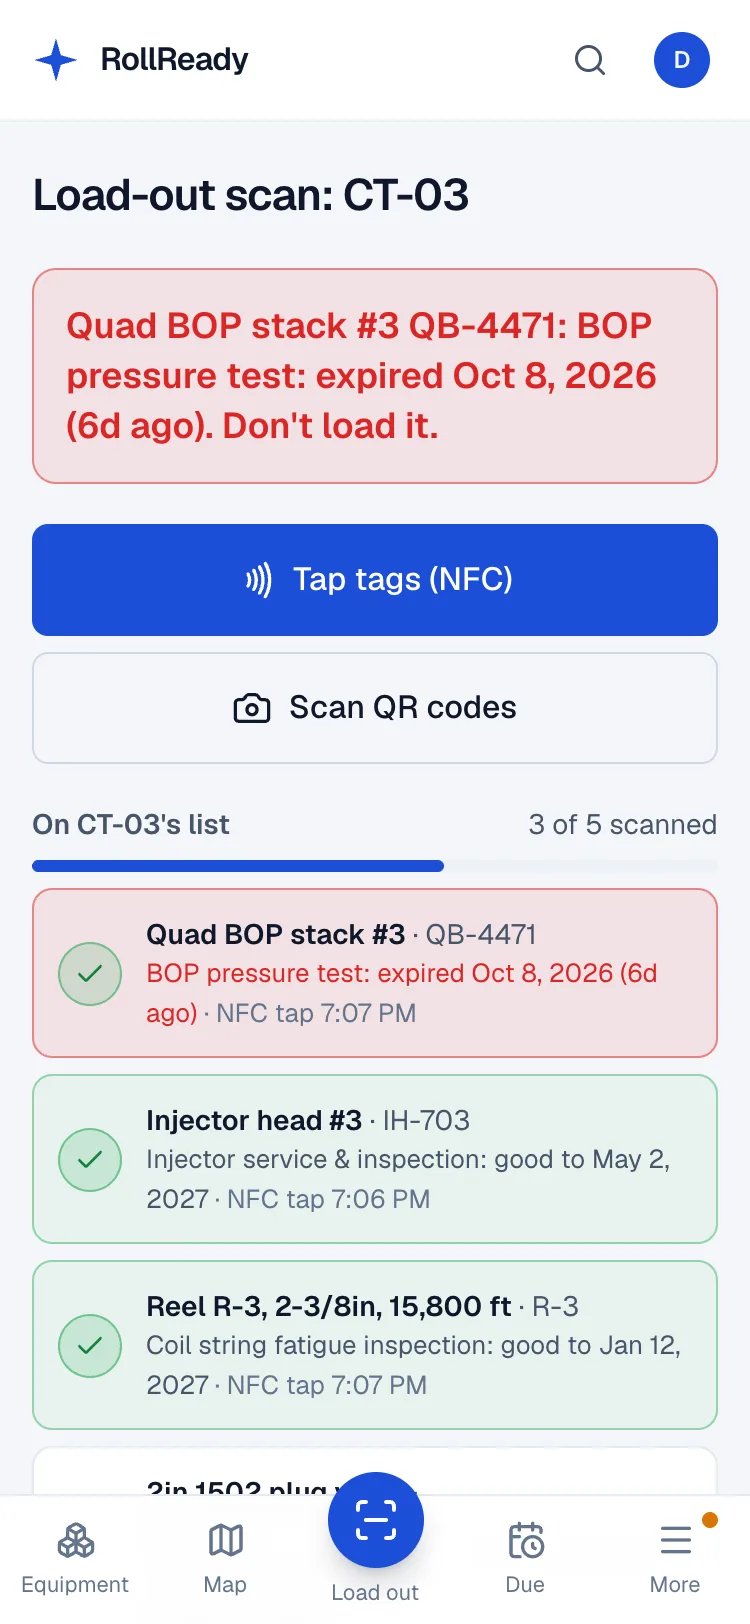
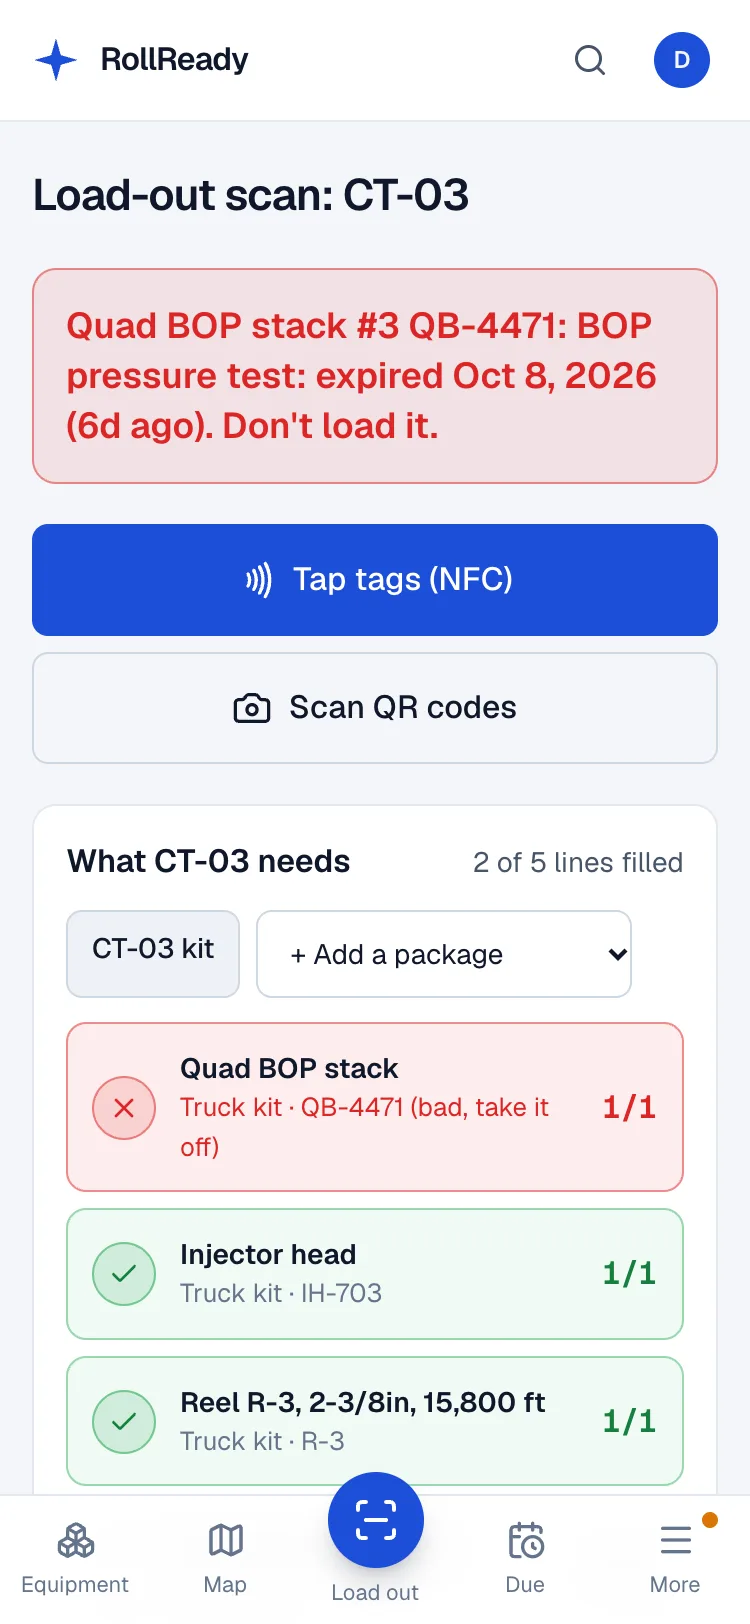
load-out: redraw after package edits, plain reason wording, expired tests read expired on records, nav fits 320px, new homepage screenshots

Changed region(s): [[0.0307, 0.4926, 0.9813, 0.9236], [0.9507, 0.8005, 0.9813, 0.8621], [0.9507, 0.6773, 0.9813, 0.7389]]

diff --git a/app/app/_components/loadout-record-view.tsx b/app/app/_components/loadout-record-view.tsx
@@ -20,6 +20,9 @@ const OUTCOME: Record<string, string> = {
 const time = (iso: string | undefined) =>
   iso ? new Date(iso).toLocaleTimeString("en-US", { timeZone: YARD_TZ, hour: "numeric", minute: "2-digit" }) : "";
 const pieceLabel = (p: { name: string; serial: string | null }) => `${p.name}${p.serial ? ` ${p.serial}` : ""}`;
+/** How a test stood when the piece went on: "good to May 12, 2027", "expired Oct 8, 2026", or "no date". */
+const testText = (t: { title: string; good_until: string | null; result: string }) =>
+  `${t.title}: ${!t.good_until ? "no date" : t.result === "expired" ? `expired ${plainDate(t.good_until)}` : `good to ${plainDate(t.good_until)}`}`;
 
 export default function LoadoutRecordView({ rec, override, tagHref }: {
   rec: LoadoutRecord;
@@ -102,8 +105,8 @@ export default function LoadoutRecordView({ rec, override, tagHref }: {
             return (
               <div key={p.asset_id} className={cn("rounded-xl border p-3", p.red ? "border-red-500/40 bg-red-500/[0.06]" : "border-line bg-surface")}>
                 <div className="break-words text-sm font-semibold">{href ? <a href={href} className="hover:text-bone hover:underline">{pieceLabel(p)}</a> : pieceLabel(p)}</div>
-                <div className="mt-0.5 break-words text-[13px] text-ink-dim">
-                  {(p.tests ?? []).length ? (p.tests ?? []).map((t) => `${t.title}: ${t.good_until ? `good to ${plainDate(t.good_until)}` : "no date"}`).join(" · ") : "No test on file"}
+                <div className={cn("mt-0.5 break-words text-[13px]", p.red ? "text-red-400" : "text-ink-dim")}>
+                  {(p.tests ?? []).length ? (p.tests ?? []).map(testText).join(" · ") : "No test on file"}
                 </div>
                 <div className="mt-0.5 text-[13px] text-ink-faint">{HOW[p.how] ?? p.how}{p.at ? ` ${time(p.at)}` : ""}{p.by ? ` by ${p.by}` : ""}{p.added ? " · brought over from elsewhere" : ""}</div>
               </div>
@@ -124,7 +127,7 @@ export default function LoadoutRecordView({ rec, override, tagHref }: {
                       <td className="px-3 py-2 font-medium">{href ? <a href={href} className="hover:text-bone hover:underline">{p.name}</a> : p.name}{p.added ? <span className="block text-xs font-normal text-ink-faint">brought over from elsewhere</span> : null}</td>
                       <td className="px-3 py-2 tabular-nums text-ink-dim">{p.serial ?? ""}</td>
                       <td className={cn("px-3 py-2", p.red ? "text-red-400" : "text-ink-dim")}>
-                        {(p.tests ?? []).length ? (p.tests ?? []).map((t) => <div key={t.title}>{t.title}: {t.good_until ? `good to ${plainDate(t.good_until)}` : "no date"}</div>) : "No test on file"}
+                        {(p.tests ?? []).length ? (p.tests ?? []).map((t) => <div key={t.title}>{testText(t)}</div>) : "No test on file"}
                       </td>
                       <td className="px-3 py-2 text-ink-dim">{HOW[p.how] ?? p.how}</td>
                       <td className="px-3 py-2 tabular-nums text-ink-dim">{time(p.at)}</td>

diff --git a/app/marketing-html.ts b/app/marketing-html.ts
@@ -80,13 +80,13 @@ export const MARKETING_HTML = `
       <div class="x-laptop">
         <div class="x-laptop-screen">
           <img src="/screens/app-desktop.webp" width="2000" height="1250"
-            alt="RollReady Load out screen: every truck with its status. CT-03 and CT-06 not ready with the reason in red, and when each truck was last loaded out." fetchpriority="high"/>
+            alt="RollReady Load out screen: trucks counted as Blocked, Ready to load, and Loaded out today. CT-03 is blocked at load-out because its BOP stack is out of test." fetchpriority="high"/>
         </div>
         <div class="x-laptop-base"></div>
       </div>
       <div class="x-phone">
         <img src="/screens/app-phone.webp" width="750" height="1624"
-          alt="A load-out scan on a phone: the BOP stack on CT-03 just got scanned, and RollReady says it's out of test. Don't load it."/>
+          alt="A load-out scan on a phone: the BOP stack on CT-03 just got scanned, RollReady says it's out of test and not to load it, and the truck's kit list shows which lines are filled."/>
       </div>
     </div>
   </div>
@@ -121,7 +121,7 @@ export const MARKETING_HTML = `
     <div class="x-browser">
       <div class="x-browser-bar"><i></i><i></i><i></i><span>synnr.io/app</span></div>
       <img src="/screens/app-desktop.webp" width="2000" height="1250" loading="lazy"
-        alt="RollReady Load out screen: every truck, worst first, with a button to start its load-out scan"/>
+        alt="RollReady Load out screen: blocked trucks first with the reason in red, then trucks ready to load, each with a button to start its load-out scan"/>
     </div>
     <p class="x-fine x-center">Screenshots of the real app, not mockups. CT-03's BOP stack is six days past its pressure test, so the load-out stops it in the yard.</p>
     <div class="x-cta x-cta-center">

diff --git a/app/app/loadouts/[id]/page.tsx b/app/app/loadouts/[id]/page.tsx
@@ -58,7 +58,7 @@ export default async function LoadoutRecordPage({ params }: { params: Promise<{ 
               <summary className="cursor-pointer text-sm font-semibold">Roll anyway (manager override)</summary>
               <form action={rollLoadoutAnyway} className="mt-3 flex flex-col gap-2">
                 <input type="hidden" name="loadout_id" value={rec.id} />
-                <label className="text-sm text-ink-dim" htmlFor="reason">Why is it OK to roll? Your name and this reason go on the record and the proof link, and the office gets an email.</label>
+                <label className="text-sm text-ink-dim" htmlFor="reason">Why is it OK to roll? Your name and this reason go on the record and the proof link, and anyone set up for alerts gets an email.</label>
                 <textarea id="reason" name="reason" required minLength={10} maxLength={500} rows={3}
                   className="w-full rounded-lg border border-line-2 bg-coal px-3 py-2 text-ink outline-none focus:border-bone" />
                 <button type="submit" className={buttonClass("outline", "lg", "self-start border-amber-500/50 text-amber-400")}>Roll it on my override</button>

diff --git a/app/app/units/[unitId]/scan/scanner.tsx b/app/app/units/[unitId]/scan/scanner.tsx
@@ -350,7 +350,7 @@ export default function LoadoutScanner({ truck, pieces, kit, packages, manager =
             {ready ? <ShieldCheck className="h-8 w-8 shrink-0" /> : <OctagonX className="h-8 w-8 shrink-0" />}
             {ready ? "READY" : "NOT READY"}
           </div>
-          <p className="mt-1 text-base text-ink">{ready ? `${truck.name} can roll. The record is saved and can't be edited.` : `${truck.name} can't roll. The record is saved, and the office has been told.`}</p>
+          <p className="mt-1 text-base text-ink">{ready ? `${truck.name} can roll. The record is saved and can't be edited.` : `${truck.name} can't roll. The record is saved, and anyone set up for alerts gets an email.`}</p>
           {!ready ? (
             <ul className="mt-3 flex flex-col gap-1.5">
               {saved.reasons.map((r) => <li key={r} className="break-words text-[15px] font-medium text-red-300">{r}</li>)}

diff --git a/app/app/loadouts/[id]/actions.ts b/app/app/loadouts/[id]/actions.ts
@@ -34,7 +34,7 @@ export async function rollLoadoutAnyway(fd: FormData): Promise<void> {
   if (error && !/duplicate key/i.test(error.message)) throw new Error(error.message);
 
   const why = reasonsOf(got.rec).slice(0, 3).join("; ");
-  const message = `${got.rec.unit_name} rolled NOT READY on a manager override by ${actor}. Reason: "${reason}". Not ready because: ${why}`;
+  const message = `${got.rec.unit_name} rolled NOT READY on a manager override by ${actor}. Reason: "${reason.replace(/[.\s]+$/, "")}". Not ready because: ${why}`;
   void logEvent({ companyId: company.id, kind: "rolled_override", unitId: got.rec.unit_id, actor, message });
   void notifyEvent({ companyId: company.id, companyName: company.name, yardId: got.rec.yard_id, message });
 

diff --git a/app/app/packages/actions.ts b/app/app/packages/actions.ts
@@ -1,6 +1,6 @@
 "use server";
 
-import { revalidatePath } from "next/cache";
+import { revalidatePath, refresh as refreshRouter } from "next/cache";
 import { redirect } from "next/navigation";
 import { requireBillableCompany, assertCan } from "@/lib/saas/auth";
 import { saasDb } from "@/lib/saas/db";
@@ -28,6 +28,8 @@ function refresh(pkg: { id: string; unit_id: string | null }) {
   revalidatePath("/app/packages");
   revalidatePath(`/app/packages/${pkg.id}`);
   if (pkg.unit_id) revalidatePath(`/app/units/${pkg.unit_id}/kit`);
+  // Redraw the page the manager is on, so the change shows right away.
+  refreshRouter();
 }
 
 /** The package or kit a line belongs to, if it's this company's. */

diff --git a/lib/saas/__tests__/demo-loadouts.test.ts b/lib/saas/__tests__/demo-loadouts.test.ts
@@ -13,7 +13,7 @@ describe("the demo yard's load-outs, by the real rules", () => {
   it("CT-03 is blocked by the BOP stack that's out of test, and only that", () => {
     const r = rec("ct3");
     expect(r.verdict).toBe("not_ready");
-    expect(r.reasons).toEqual(["Out of test: Quad BOP stack #3 QB-4471 (BOP pressure test expired Oct 8, 2026 (6d ago))"]);
+    expect(r.reasons).toEqual(["Out of test: Quad BOP stack #3 QB-4471, BOP pressure test expired Oct 8, 2026 (6d ago)"]);
     expect(r.pieces.filter((p) => p.red).map((p) => p.serial)).toEqual(["QB-4471"]);
   });
   it("CT-07 came back short on the pump-down package (the one a manager rolled anyway)", () => {

diff --git a/lib/saas/loadout-lines.ts b/lib/saas/loadout-lines.ts
@@ -121,7 +121,7 @@ export function loadoutVerdict(input: {
   for (const p of input.cantFind) reasons.push(`Can't find: ${pieceLabel(p)}`);
   for (const p of input.bad) {
     const what = p.why === "red_tagged" ? "Red-tagged" : p.why === "no_test_date" ? "No test date on file" : "Out of test";
-    reasons.push(`${what}: ${pieceLabel(p)}${p.detail ? ` (${p.detail})` : ""}`);
+    reasons.push(`${what}: ${pieceLabel(p)}${p.detail ? `, ${p.detail}` : ""}`);
   }
   for (const t of input.truckPaper) reasons.push(`Truck paper: ${t.title} ${t.detail}`);
   return { verdict: reasons.length ? "not_ready" : "ready", reasons };

diff --git a/app/app/page.tsx b/app/app/page.tsx
@@ -63,7 +63,8 @@ export default async function LoadOutHome({ searchParams }: { searchParams: Prom
     .map((e) => ({
       id: e.id,
       time: new Date(e.created_at).toLocaleTimeString("en-US", { timeZone: YARD_TZ, hour: "numeric", minute: "2-digit" }),
-      actor: e.actor, message: e.message, tone: TONE[e.kind] ?? null,
+      // The message usually names the person already ("... by Dale Wooten").
+      actor: e.actor && !e.message.includes(e.actor) ? e.actor : null, message: e.message, tone: TONE[e.kind] ?? null,
     }));
 
   return (

diff --git a/lib/saas/__tests__/loadout-lines.test.ts b/lib/saas/__tests__/loadout-lines.test.ts
@@ -90,7 +90,7 @@ describe("loadoutVerdict", () => {
     expect(v.reasons).toEqual([
       "Short: Plug valve 2-inch, 1 of 4 scanned (Standard Coil Package)",
       "Can't find: Lubricator LB-221",
-      "Out of test: BOP stack QB-4471 (pressure test expired Oct 8)",
+      "Out of test: BOP stack QB-4471, pressure test expired Oct 8",
       "Red-tagged: Plug valve PV-9",
       "Truck paper: DOT annual inspection expired Oct 2",
     ]);

diff --git a/app/marketing.css b/app/marketing.css
@@ -844,3 +844,9 @@
   .mkt .x-laptop-screen { border-width: 6px; border-bottom-width: 9px; border-radius: 10px 10px 3px 3px; }
   .mkt .x-laptop-base { height: 9px; }
 }
+
+/* Smallest phones (320 to 359px): the nav's demo button is also the hero's
+   first button, so it steps aside and the menu button stays on screen. */
+@media (max-width: 359px) {
+  .mkt .nav-cta .btn-sm { display: none; }
+}
